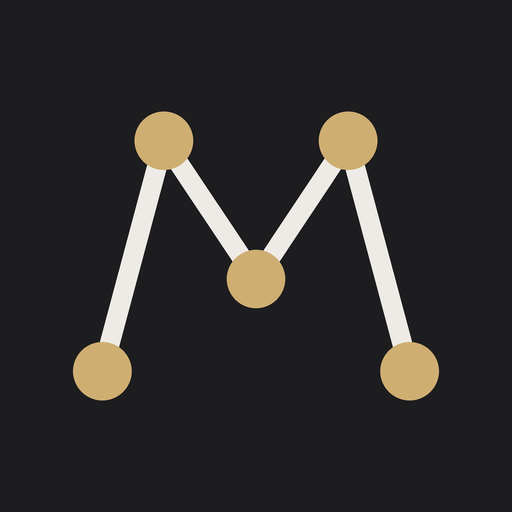
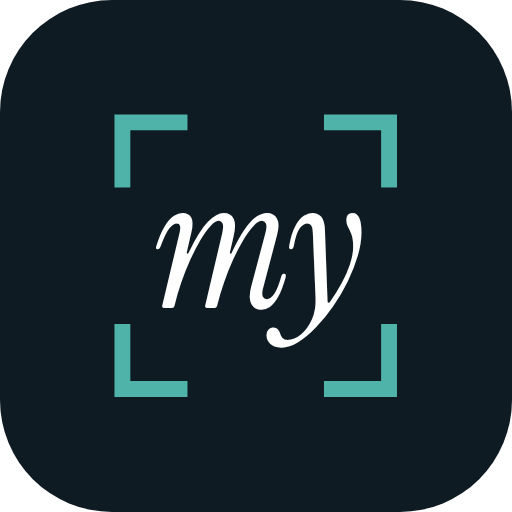
Apply the new brand identity to the site
New "myskin care" logo (italic serif "my", bold "skin", light "care", focus
ring over the i), built in text so it stays sharp and follows dark mode; new
palette (graphite #0F1B22, clinical green #1F7A75, mint #E3F0EC, skin
#E8DDD3) with green primary buttons and Instrument Serif headings. Favicon,
touch icon and the share preview now use the "my" viewfinder symbol;
scripts/marca_site.mjs regenerates them. The app keeps its current look.

Claude-Session: https://claude.ai/code/session_01PYvaY8RyH4tNhhQwRFbmCm

diff --git a/site/public/estilo.css b/site/public/estilo.css
@@ -1,19 +1,22 @@
-/* Site do MY Skin Care. Mesma identidade do app (visual "novo"): creme, nude rosado e café. */
+/* Site do MY Skin Care. Identidade "Direção 04 · refinada": grafite, verde clínico, menta e pele.
+   (Os nomes das variáveis vêm da paleta anterior: --ouro é o verde clínico, --cafe é o grafite.) */
 :root {
-  --fundo: #F7F2EC;
-  --sup: #FFFDFB;
-  --sup-2: #F1E9E0;
-  --tinta: #2E211B;
-  --tinta-2: #5A4A40;
-  --apagado: #8E7D71;
-  --linha: #E8DDD2;
-  --ouro: #B88A6A;
-  --ouro-tinta: #8A5F43;
-  --ouro-suave: #F4E8DE;
-  --cafe: #3B2A22;
-  --creme: #F7EFE7;
-  --sombra: 0 1px 1px rgba(59, 42, 34, .04), 0 18px 40px -18px rgba(59, 42, 34, .25);
-  --serifa: "Cormorant Garamond", Georgia, serif;
+  --fundo: #F6F8F7;
+  --sup: #FFFFFF;
+  --sup-2: #EEF4F2;
+  --tinta: #0F1B22;
+  --tinta-2: #3E4C53;
+  --apagado: #6B7A80;
+  --linha: #DCE5E2;
+  --ouro: #1F7A75;
+  --ouro-tinta: #1A6964;
+  --ouro-suave: #E3F0EC;
+  --pele: #E8DDD3;
+  --cafe: #0F1B22;
+  --creme: #F3F7F6;
+  --care: #4E5D65;
+  --sombra: 0 1px 1px rgba(15, 27, 34, .04), 0 18px 40px -18px rgba(15, 27, 34, .22);
+  --serifa: "Instrument Serif", Georgia, serif;
   --texto: "Manrope", system-ui, -apple-system, "Segoe UI", Roboto, sans-serif;
   --largura: 1120px;
   color-scheme: light;
@@ -21,15 +24,15 @@
 @media (prefers-color-scheme: dark) {
   :root:not([data-theme="light"]) {
     color-scheme: dark;
-    --fundo: #17110E; --sup: #211915; --sup-2: #2B211C; --tinta: #F3E9DF; --tinta-2: #D2C2B5; --apagado: #A08E80;
-    --linha: #34281F; --ouro: #D2A587; --ouro-tinta: #E2BBA0; --ouro-suave: #2E2119; --cafe: #0F0B09; --creme: #F3E9DF;
+    --fundo: #0B1418; --sup: #111E24; --sup-2: #16262D; --tinta: #E8F0EE; --tinta-2: #B5C4C2; --apagado: #85979A;
+    --linha: #20323A; --ouro: #4FB3A9; --ouro-tinta: #6CC5BB; --ouro-suave: #15302E; --pele: #2A2420; --cafe: #050B0E; --creme: #E8F0EE; --care: #9FB0B4;
     --sombra: 0 1px 1px rgba(0, 0, 0, .3), 0 18px 40px -18px rgba(0, 0, 0, .8);
   }
 }
 :root[data-theme="dark"] {
   color-scheme: dark;
-  --fundo: #17110E; --sup: #211915; --sup-2: #2B211C; --tinta: #F3E9DF; --tinta-2: #D2C2B5; --apagado: #A08E80;
-  --linha: #34281F; --ouro: #D2A587; --ouro-tinta: #E2BBA0; --ouro-suave: #2E2119; --cafe: #0F0B09; --creme: #F3E9DF;
+  --fundo: #0B1418; --sup: #111E24; --sup-2: #16262D; --tinta: #E8F0EE; --tinta-2: #B5C4C2; --apagado: #85979A;
+  --linha: #20323A; --ouro: #4FB3A9; --ouro-tinta: #6CC5BB; --ouro-suave: #15302E; --pele: #2A2420; --cafe: #050B0E; --creme: #E8F0EE; --care: #9FB0B4;
   --sombra: 0 1px 1px rgba(0, 0, 0, .3), 0 18px 40px -18px rgba(0, 0, 0, .8);
 }
 
@@ -56,9 +59,15 @@ img { display: block; max-width: 100%; height: auto; }
 /* Topo */
 .topo { position: sticky; top: 0; z-index: 20; background: color-mix(in srgb, var(--fundo) 78%, transparent); backdrop-filter: blur(16px) saturate(1.2); -webkit-backdrop-filter: blur(16px) saturate(1.2); border-bottom: 1px solid color-mix(in srgb, var(--linha) 60%, transparent); }
 .topo-in { max-width: var(--largura); margin: 0 auto; padding: 12px 20px; display: flex; align-items: center; gap: 24px; }
-.marca { display: inline-flex; align-items: center; gap: 10px; color: var(--tinta); text-decoration: none; }
-.marca b { font-family: var(--serifa); font-size: 24px; font-weight: 600; letter-spacing: .04em; white-space: nowrap; }
-.marca b span { color: var(--ouro-tinta); }
+.marca { display: inline-flex; align-items: center; color: var(--tinta); text-decoration: none; }
+/* Logo: "my" itálico com serifa + "skin" negrito + "care" leve; o ponto do i é o círculo de foco */
+.logo { display: inline-flex; align-items: baseline; font-family: var(--texto); font-size: 30px; line-height: 1; letter-spacing: -.035em; white-space: nowrap; color: var(--tinta); }
+.logo i { font-family: var(--serifa); font-style: italic; font-weight: 400; font-size: 1.16em; letter-spacing: -.02em; margin-right: .03em; }
+.logo b { font-weight: 700; }
+.logo .i { position: relative; }
+.logo .i::before { content: ""; position: absolute; left: 50%; top: .07em; width: .29em; height: .29em; transform: translateX(-50%); box-sizing: border-box;
+  border: .055em solid var(--ouro); border-radius: 50%; background: radial-gradient(circle, var(--ouro) 0 26%, transparent 30%); }
+.logo .care { font-weight: 400; color: var(--care); margin-left: .2em; }
 .menu { display: flex; gap: 26px; margin-left: auto; }
 .menu a { color: var(--tinta-2); text-decoration: none; font-size: 14.5px; font-weight: 500; }
 .menu a:hover { color: var(--tinta); }
@@ -68,14 +77,14 @@ img { display: block; max-width: 100%; height: auto; }
   font-weight: 600; font-size: 15.5px; text-decoration: none; border: 1px solid transparent; transition: transform .15s ease, box-shadow .15s ease, background .15s ease; }
 .btn:hover { transform: translateY(-1px); }
 .btn-p { min-height: 42px; padding: 0 18px; font-size: 14px; white-space: nowrap; }
-.btn-escuro { background: var(--cafe); color: var(--creme); box-shadow: 0 12px 24px -12px rgba(59, 42, 34, .7); }
+.btn-escuro { background: var(--ouro); color: #FFFFFF; box-shadow: 0 12px 24px -12px rgba(31, 122, 117, .65); }
 /* No escuro, o café some no fundo: os botões principais ficam em nude */
 @media (prefers-color-scheme: dark) {
-  :root:not([data-theme="light"]) .btn-escuro { background: var(--ouro); color: #1A120E; box-shadow: none; }
+  :root:not([data-theme="light"]) .btn-escuro { background: var(--ouro); color: #04120F; box-shadow: none; }
 }
-:root[data-theme="dark"] .btn-escuro { background: var(--ouro); color: #1A120E; box-shadow: none; }
+:root[data-theme="dark"] .btn-escuro { background: var(--ouro); color: #04120F; box-shadow: none; }
 .btn-claro { background: var(--sup); color: var(--tinta); border-color: var(--linha); }
-.btn-ouro { background: var(--ouro); color: #FFFDFB; }
+.btn-ouro { background: var(--ouro); color: #FFFFFF; }
 .btn-loja { background: var(--sup); color: var(--tinta); border-color: var(--linha); padding: 0 20px 0 16px; text-align: left; }
 .btn-loja svg { width: 22px; height: 22px; flex: none; }
 .btn-loja span { display: flex; flex-direction: column; line-height: 1.15; font-size: 15px; }
@@ -103,7 +112,7 @@ img { display: block; max-width: 100%; height: auto; }
 .selos li { display: inline-flex; align-items: center; gap: 8px; }
 .selos li::before { content: ""; width: 7px; height: 7px; border-radius: 50%; background: var(--ouro); }
 .hero-vis { position: relative; height: 600px; }
-.celular { border-radius: 42px; padding: 10px; background: var(--cafe); box-shadow: var(--sombra), 0 40px 80px -40px rgba(59, 42, 34, .55); }
+.celular { border-radius: 42px; padding: 10px; background: var(--cafe); box-shadow: var(--sombra), 0 40px 80px -40px rgba(15, 27, 34, .5); }
 .celular img, .celular video { display: block; border-radius: 33px; width: 100%; height: auto; }
 @media (prefers-color-scheme: dark) { :root:not([data-theme="light"]) .celular, :root:not([data-theme="light"]) .btn-escuro { box-shadow: var(--sombra), inset 0 0 0 1px rgba(255, 255, 255, .08); } }
 .hero-vis .celular { position: absolute; width: 280px; }
@@ -163,8 +172,8 @@ img { display: block; max-width: 100%; height: auto; }
 .plano.melhor .lista li, .plano.melhor .sub, .plano.melhor .preco small { color: color-mix(in srgb, var(--creme) 78%, transparent); }
 .plano.melhor .lista li::before { background: color-mix(in srgb, var(--ouro) 25%, transparent); box-shadow: none; }
 .plano.melhor .lista li::after { border-color: var(--ouro); }
-.plano.melhor .btn-escuro { background: var(--ouro); color: #FFFDFB; box-shadow: none; }
-.etiqueta { position: absolute; top: -13px; left: 28px; background: var(--ouro); color: #FFFDFB; font-size: 12px; font-weight: 600; padding: 5px 12px; border-radius: 999px; }
+.plano.melhor .btn-escuro { background: var(--ouro); color: #FFFFFF; box-shadow: none; }
+.etiqueta { position: absolute; top: -13px; left: 28px; background: var(--ouro); color: #FFFFFF; font-size: 12px; font-weight: 600; padding: 5px 12px; border-radius: 999px; }
 .indique { display: flex; align-items: center; gap: 14px; max-width: 760px; margin: 24px auto 0; padding: 16px 20px; border-radius: 20px; background: var(--ouro-suave); color: var(--tinta-2); }
 .indique svg { flex: none; width: 30px; height: 30px; fill: none; stroke: var(--ouro-tinta); stroke-width: 1.6; stroke-linecap: round; stroke-linejoin: round; }
 .indique b { color: var(--tinta); }
@@ -244,7 +253,7 @@ img { display: block; max-width: 100%; height: auto; }
 }
 @media (max-width: 520px) {
   body { font-size: 15.5px; }
-  .marca b { font-size: 21px; }
+  .logo { font-size: 25px; }
   .topo-in { padding: 10px 16px; gap: 12px; }
   .hero { padding: 36px 16px 40px; }
   .hero h1 { font-size: 44px; }
@@ -278,3 +287,9 @@ img { display: block; max-width: 100%; height: auto; }
 html:not(.novidades) [data-novidade], html.novidades [data-sem-novidade] { display: none !important; }
 .planos { grid-template-columns: repeat(auto-fit, minmax(260px, 1fr)); }
 html:not(.novidades) .planos { max-width: 760px; margin-inline: auto; }
+
+/* Instrument Serif tem um só peso: títulos em peso normal, sem negrito artificial */
+h1, h2, .passos h3, .card h3, .recurso h3, .plano .preco, .depo blockquote, .passos .num { font-weight: 400; }
+h1, h2 { letter-spacing: -.01em; }
+.indique { background: var(--pele); }
+@media (prefers-color-scheme: dark) { :root:not([data-theme="light"]) .indique { background: var(--ouro-suave); } }

diff --git a/site/public/index.html b/site/public/index.html
@@ -6,8 +6,8 @@
 <title>MY Skin Care: análise de pele por foto, rotina e evolução</title>
 <meta name="description" content="Tire uma foto do rosto e receba notas para 10 aspectos da sua pele, uma rotina de cuidados e produtos com preço de referência. Primeira análise grátis.">
 <link rel="canonical" href="https://www.myskincareapp.com.br/">
-<meta name="theme-color" content="#F7F2EC" media="(prefers-color-scheme: light)">
-<meta name="theme-color" content="#17110E" media="(prefers-color-scheme: dark)">
+<meta name="theme-color" content="#F6F8F7" media="(prefers-color-scheme: light)">
+<meta name="theme-color" content="#0B1418" media="(prefers-color-scheme: dark)">
 <meta property="og:type" content="website">
 <meta property="og:locale" content="pt_BR">
 <meta property="og:site_name" content="MY Skin Care">
@@ -22,7 +22,7 @@
 <link rel="apple-touch-icon" href="icones/apple-touch-icon.png">
 <link rel="preconnect" href="https://fonts.googleapis.com">
 <link rel="preconnect" href="https://fonts.gstatic.com" crossorigin>
-<link rel="stylesheet" href="https://fonts.googleapis.com/css2?family=Cormorant+Garamond:wght@500;600&family=Manrope:wght@400;500;600;700&display=swap">
+<link rel="stylesheet" href="https://fonts.googleapis.com/css2?family=Instrument+Serif:ital@0;1&family=Manrope:wght@400;500;600;700&display=swap">
 <link rel="stylesheet" href="estilo.css">
 <script type="application/ld+json">
 {
@@ -47,8 +47,7 @@
 <header class="topo">
   <div class="topo-in">
     <a class="marca" href="#" aria-label="MY Skin Care, início">
-      <svg width="30" height="30" viewBox="0 0 30 30" aria-hidden="true"><polyline points="5,23 9,8 15,17 21,8 25,23" fill="none" stroke="currentColor" stroke-width="1.6" stroke-linejoin="round"/><g fill="var(--ouro)"><circle cx="5" cy="23" r="2.3"/><circle cx="9" cy="8" r="2.3"/><circle cx="15" cy="17" r="2.3"/><circle cx="21" cy="8" r="2.3"/><circle cx="25" cy="23" r="2.3"/></g></svg>
-      <b>MY <span>Skin Care</span></b>
+      <span class="logo" aria-hidden="true"><i>my</i><b>sk<span class="i">ı</span>n</b><span class="care">care</span></span>
     </a>
     <nav class="menu" aria-label="Seções">
       <a href="#como-funciona">Como funciona</a>
@@ -316,8 +315,7 @@
   <div class="rodape-in">
     <div class="rodape-marca">
       <a class="marca" href="#" aria-label="MY Skin Care, início">
-        <svg width="26" height="26" viewBox="0 0 30 30" aria-hidden="true"><polyline points="5,23 9,8 15,17 21,8 25,23" fill="none" stroke="currentColor" stroke-width="1.6" stroke-linejoin="round"/><g fill="var(--ouro)"><circle cx="5" cy="23" r="2.3"/><circle cx="9" cy="8" r="2.3"/><circle cx="15" cy="17" r="2.3"/><circle cx="21" cy="8" r="2.3"/><circle cx="25" cy="23" r="2.3"/></g></svg>
-        <b>MY <span>Skin Care</span></b>
+      <span class="logo" aria-hidden="true"><i>my</i><b>sk<span class="i">ı</span>n</b><span class="care">care</span></span>
       </a>
       <p class="aviso">Avaliação visual e cosmética da pele por inteligência artificial. Não é serviço médico, não faz diagnóstico e não substitui o dermatologista. Para maiores de 18 anos.</p>
     </div>

diff --git a/site/public/convite.html b/site/public/convite.html
@@ -11,15 +11,14 @@
 <meta name="twitter:card" content="summary_large_image">
 <meta name="robots" content="noindex">
 <link rel="icon" href="/icones/icone-192.png" type="image/png">
-<link rel="stylesheet" href="https://fonts.googleapis.com/css2?family=Cormorant+Garamond:wght@500;600&family=Manrope:wght@400;500;600;700&display=swap">
+<link rel="stylesheet" href="https://fonts.googleapis.com/css2?family=Instrument+Serif:ital@0;1&family=Manrope:wght@400;500;600;700&display=swap">
 <link rel="stylesheet" href="/estilo.css">
 <script type="module" src="/convite.js"></script>
 </head>
 <body>
 <main class="doc convite">
   <a class="marca" href="/" aria-label="MY Skin Care, início">
-    <svg width="30" height="30" viewBox="0 0 30 30" aria-hidden="true"><polyline points="5,23 9,8 15,17 21,8 25,23" fill="none" stroke="currentColor" stroke-width="1.6" stroke-linejoin="round"/><g fill="var(--ouro)"><circle cx="5" cy="23" r="2.3"/><circle cx="9" cy="8" r="2.3"/><circle cx="15" cy="17" r="2.3"/><circle cx="21" cy="8" r="2.3"/><circle cx="25" cy="23" r="2.3"/></g></svg>
-    <b>MY <span>Skin Care</span></b>
+      <span class="logo" aria-hidden="true"><i>my</i><b>sk<span class="i">ı</span>n</b><span class="care">care</span></span>
   </a>
   <h1>Uma amiga te deu 1 mês grátis</h1>
   <p>O MY Skin Care analisa 10 aspectos da sua pele por foto e monta uma rotina de cuidados com produtos que cabem no bolso.</p>

diff --git a/site/public/privacidade.html b/site/public/privacidade.html
@@ -5,7 +5,7 @@
 <meta name="viewport" content="width=device-width, initial-scale=1, viewport-fit=cover">
 <title>Política de Privacidade — MY Skin Care</title>
 <link rel="icon" href="icones/icone-192.png" type="image/png">
-<link rel="stylesheet" href="https://fonts.googleapis.com/css2?family=Cormorant+Garamond:wght@500;600&family=Manrope:wght@400;500;600;700&display=swap">
+<link rel="stylesheet" href="https://fonts.googleapis.com/css2?family=Instrument+Serif:ital@0;1&family=Manrope:wght@400;500;600;700&display=swap">
 <link rel="stylesheet" href="estilo.css">
 </head>
 <body>

diff --git a/site/public/termos.html b/site/public/termos.html
@@ -5,7 +5,7 @@
 <meta name="viewport" content="width=device-width, initial-scale=1, viewport-fit=cover">
 <title>Termos de Uso — MY Skin Care</title>
 <link rel="icon" href="icones/icone-192.png" type="image/png">
-<link rel="stylesheet" href="https://fonts.googleapis.com/css2?family=Cormorant+Garamond:wght@500;600&family=Manrope:wght@400;500;600;700&display=swap">
+<link rel="stylesheet" href="https://fonts.googleapis.com/css2?family=Instrument+Serif:ital@0;1&family=Manrope:wght@400;500;600;700&display=swap">
 <link rel="stylesheet" href="estilo.css">
 </head>
 <body>

diff --git a/site/public/404.html b/site/public/404.html
@@ -6,7 +6,7 @@
 <title>Página não encontrada · MY Skin Care</title>
 <meta name="robots" content="noindex">
 <link rel="icon" href="/icones/icone-192.png" type="image/png">
-<link rel="stylesheet" href="https://fonts.googleapis.com/css2?family=Cormorant+Garamond:wght@500;600&family=Manrope:wght@400;500;600;700&display=swap">
+<link rel="stylesheet" href="https://fonts.googleapis.com/css2?family=Instrument+Serif:ital@0;1&family=Manrope:wght@400;500;600;700&display=swap">
 <link rel="stylesheet" href="/estilo.css">
 </head>
 <body>

diff --git a/scripts/gera_juridico.py b/scripts/gera_juridico.py
@@ -74,7 +74,7 @@ def pagina_site(titulo, corpo):
 <meta name="viewport" content="width=device-width, initial-scale=1, viewport-fit=cover">
 <title>{html.escape(titulo)}</title>
 <link rel="icon" href="icones/icone-192.png" type="image/png">
-<link rel="stylesheet" href="https://fonts.googleapis.com/css2?family=Cormorant+Garamond:wght@500;600&family=Manrope:wght@400;500;600;700&display=swap">
+<link rel="stylesheet" href="https://fonts.googleapis.com/css2?family=Instrument+Serif:ital@0;1&family=Manrope:wght@400;500;600;700&display=swap">
 <link rel="stylesheet" href="estilo.css">
 </head>
 <body>

diff --git a/site/README.md b/site/README.md
@@ -6,7 +6,8 @@ Privacidade. É um Worker da Cloudflare separado do app (`my-skin-care`, pasta `
 
 | Arquivo | O que é |
 |---|---|
-| `public/index.html` e `public/estilo.css` | A página, com a mesma identidade visual do app (claro e escuro) |
+| `public/index.html` e `public/estilo.css` | A página, com a identidade "Direção 04" (grafite, verde clínico, menta e pele; logo "myskin care" em texto, com o círculo de foco no i), em claro e escuro |
+| `scripts/marca_site.mjs` | Gera os ícones (símbolo "my" no visor) e a prévia `img/og.png` com o site rodando localmente |
 | `public/lojas.js` | Endereços da App Store e do Google Play: vazios mostram "Em breve" |
 | `public/site.js` | Liga os botões das lojas na página inicial |
 | `public/baixar.html` | `/baixar`, o link da imagem de evolução do app: leva o celular à loja ou, sem loja, ao site |
